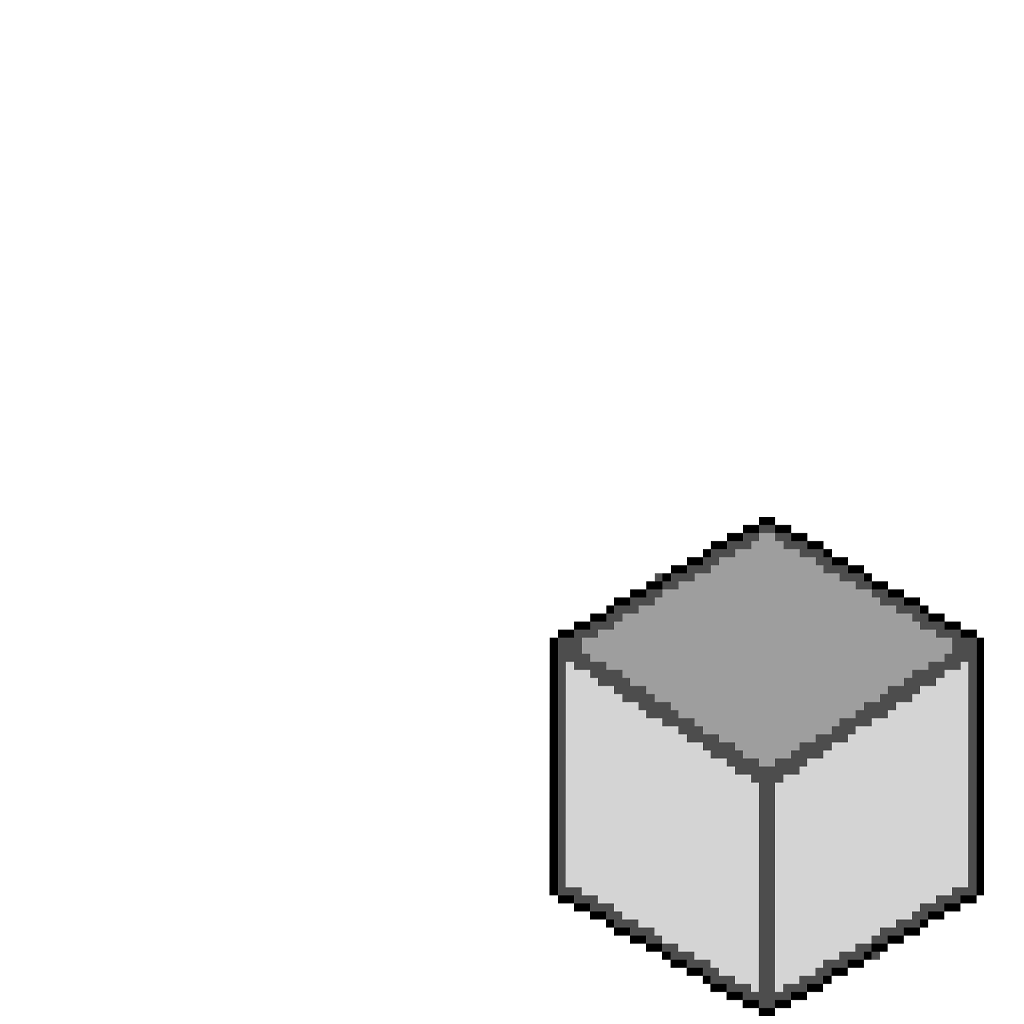
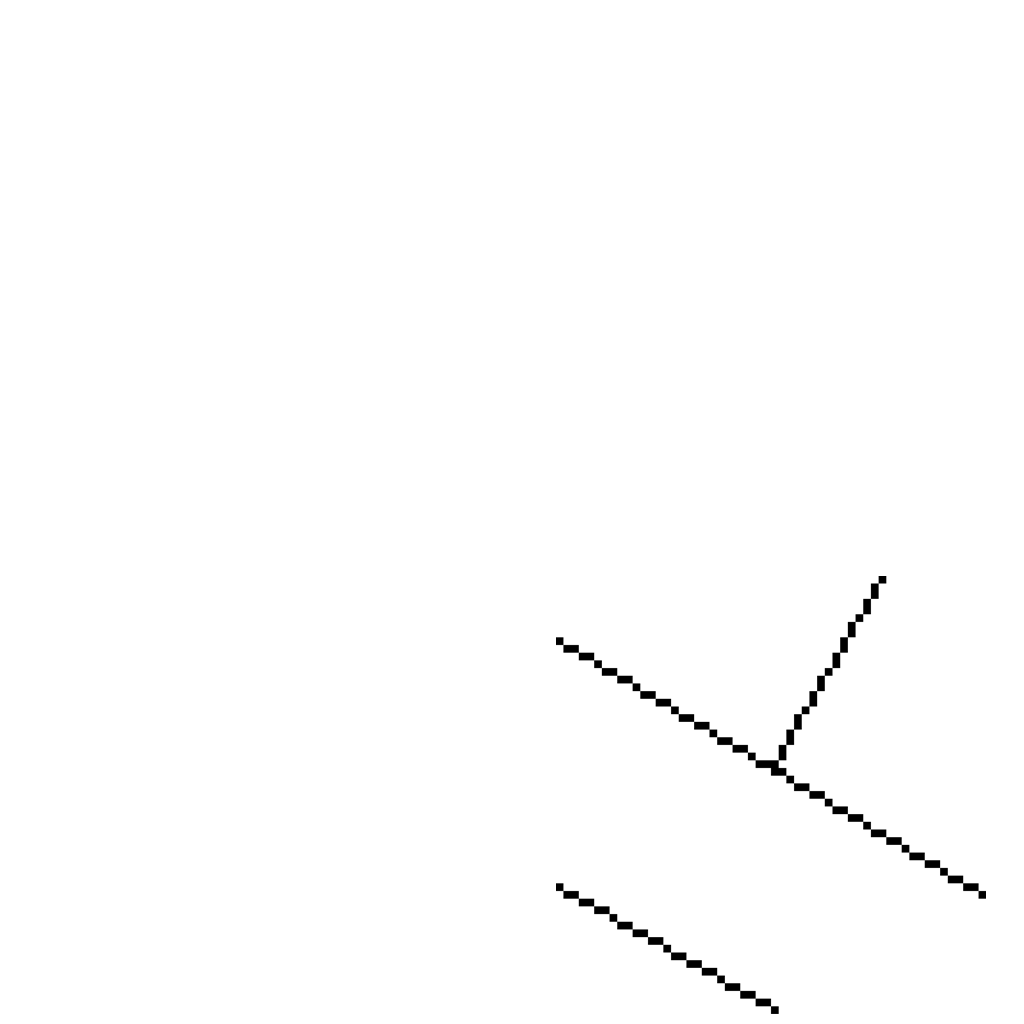
Continued work on Tile Element placement
- Got basic placement working for tile elements
- A bug exists causing wall elements to be able to placed where no wall exists. This is likely a small issue that I can fix

Changed region(s): [[0.5312, 0.5, 0.9688, 1.0]]

diff --git a/Assets/_Scripts/Map Generation/MapBuilder.cs b/Assets/_Scripts/Map Generation/MapBuilder.cs
@@ -717,7 +717,82 @@ public class MapBuilder : MonoBehaviour
             // Go through each room to determine where to put the tile elements
             foreach(Room r in genMap.GetRooms())
             {
-                
+                // Initialize lists/dictionaries to hold valid placements for each element placement type
+                List<Tile> groundTiles = new List<Tile>();
+                List<Tile> ceilingTiles = new List<Tile>();
+                Dictionary<Tile, List<int>> wallTiles = new Dictionary<Tile, List<int>>();
+
+                // Run through all tiles in the room and add to their respective lists
+                foreach(Tile t in r.GetTiles())
+                {
+                    // Skip tiles that are modification locked as they cannot be changed
+                    if (t.modificationLocked)
+                        continue;
+
+                    // Ground tiles need to be on a tile with a floor
+                    if(t.type != TileType.EMPTY)
+                        groundTiles.Add(t);
+                    
+                    // Ceiling tiles can almost exist on anything, but obviously need a ceiling
+                    if (t.ceiling != null)
+                        ceilingTiles.Add(t);
+
+                    // The wall list will have references by tile, but also contain each wall within that tile
+                    wallTiles[t] = new List<int>();
+                    for(int i = 0; i < t.walls.Length; i++)
+                    {
+                        // If there is a wall on the index, add it to the list
+                        if (t.walls[i] != null)
+                        {
+                            wallTiles[t].Add(i);
+                        }
+                    }
+                }
+
+                // Choose what elements to place
+                for(int i = 0;i < 5; i++)
+                {
+                    ValidateElementPlacement(spawner);
+                }
+
+                // Used due to frequent reference above
+                void ValidateElementPlacement(TileElement tElement)
+                {
+                    Tile t = null;
+
+                    // Use different logic based on the type of element
+                    switch (tElement.placeType)
+                    {
+                        case TileElement.PlacementType.GROUND:
+                            t = groundTiles[UnityEngine.Random.Range(0, groundTiles.Count)];
+                            t.elements[6] = tElement;
+                            groundTiles.Remove(t);
+                            break;
+                        case TileElement.PlacementType.WALL:
+                            Tile[] tKeys = wallTiles.Keys.ToArray();
+                            t = tKeys[UnityEngine.Random.Range(0, wallTiles.Keys.Count)];
+
+                            // Get a random wall on tile
+                            List<int> walls = wallTiles[t];
+                            int randWall = UnityEngine.Random.Range(0, walls.Count);
+
+                            // Set the corresponding variables and remove this wall from eligibility
+                            t.elements[randWall] = tElement;
+                            wallTiles[t].Remove(randWall);
+
+                            // Remove the tile if it has no more walls to place on
+                            if(wallTiles[t].Count == 0)
+                            {
+                                wallTiles.Remove(t);
+                            }
+                            break;
+                        case TileElement.PlacementType.CEILING:
+                            t = ceilingTiles[UnityEngine.Random.Range(0, ceilingTiles.Count)];
+                            t.elements[7] = tElement;
+                            ceilingTiles.Remove(t);
+                            break;
+                    }
+                }
             }
         }
 
@@ -1061,9 +1136,9 @@ public class MapBuilder : MonoBehaviour
                             eObj = Instantiate(elements[k].prefab, tile.obj.transform);
                             eObj.transform.position = new Vector3
                             (
-                                0,
+                                tile.obj.transform.position.x,
                                 tile.obj.transform.position.y + Map.FLOOR_THICKNESS,
-                                0
+                                tile.obj.transform.position.z
                             );
                             break;
                         // Ceiling
@@ -1071,9 +1146,9 @@ public class MapBuilder : MonoBehaviour
                             eObj = Instantiate(elements[k].prefab, tile.obj.transform);
                             eObj.transform.position = new Vector3
                             (
-                                0,
+                                tile.obj.transform.position.x,
                                 tile.obj.transform.position.y + Map.FLOOR_HEIGHT,
-                                0
+                                tile.obj.transform.position.z
                             );
                             break;
                     }
